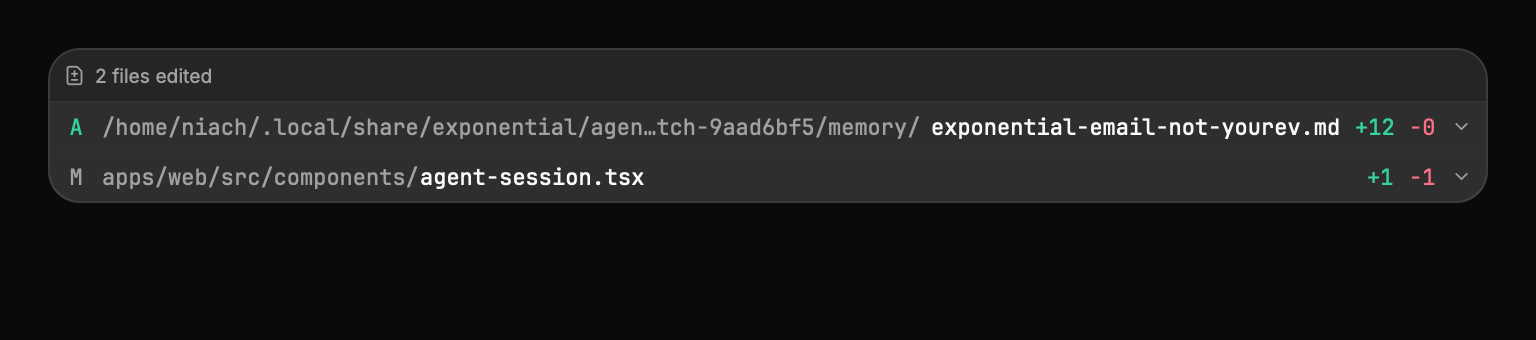
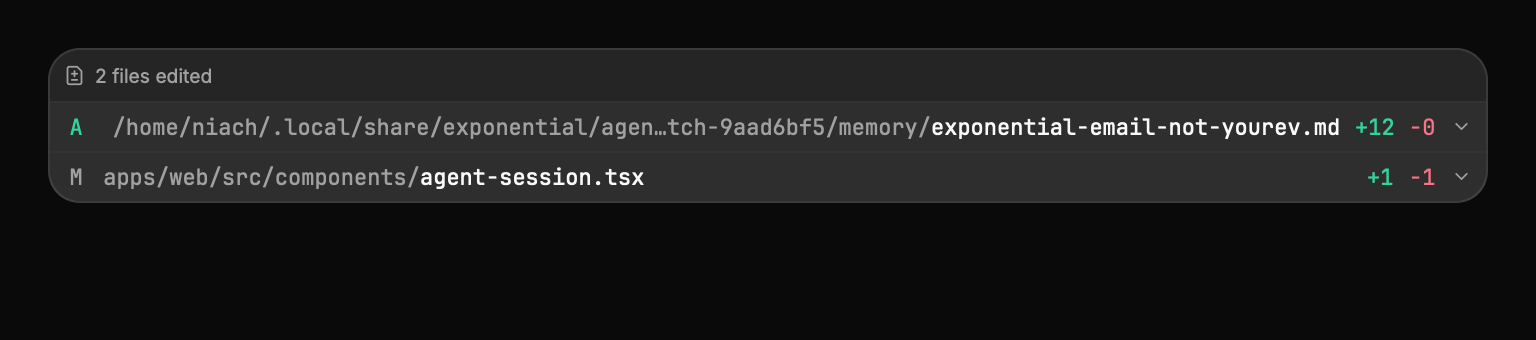
#EXP-1789: desktop — the cut directory hugs the name

Changed region(s): [[0.0625, 0.3235, 0.5938, 0.4118], [0.0625, 0.5, 0.2812, 0.5588]]

diff --git a/apps/desktop/crates/ui/src/session_extras.rs b/apps/desktop/crates/ui/src/session_extras.rs
@@ -568,6 +568,9 @@ fn edit_row_stub(row: &domain::edit_card::EditCardRow, cx: &App) -> AnyElement {
                         .overflow_hidden()
                         .whitespace_nowrap()
                         .text_ellipsis_middle()
+                        // The cut run is narrower than its box: the slack goes left,
+                        // so the directory hugs the name.
+                        .text_right()
                         .text_color(theme.muted_foreground)
                         .child(SharedString::from(dir)),
                 )

diff --git a/apps/desktop/crates/ui/src/diff.rs b/apps/desktop/crates/ui/src/diff.rs
@@ -1086,6 +1086,9 @@ fn file_header_row(
                         .overflow_hidden()
                         .whitespace_nowrap()
                         .text_ellipsis_middle()
+                        // The cut run is narrower than its box: the slack goes left,
+                        // so the directory hugs the name.
+                        .text_right()
                         .text_color(muted)
                         .child(dir.clone()),
                 )
